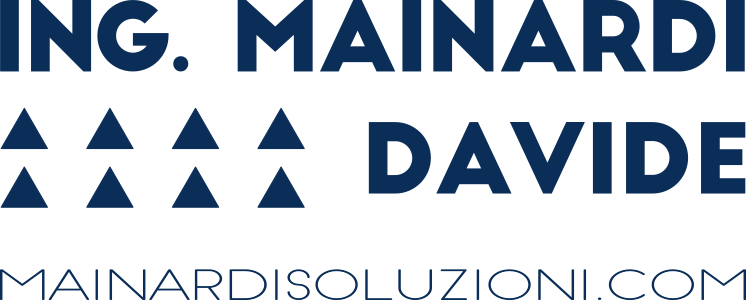
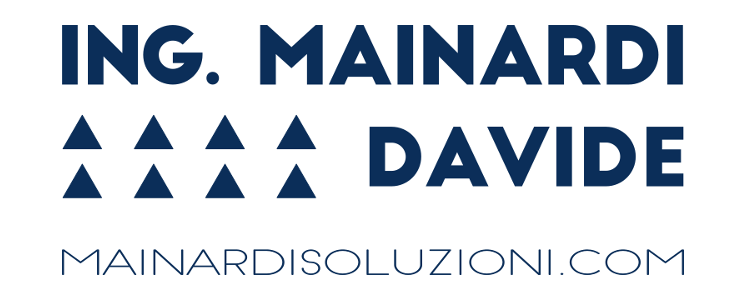
Migliorato la card open graph e twitter

diff --git a/index.html b/index.html
@@ -38,11 +38,13 @@
 		<meta property="og:type" content="article">
 		<meta property="og:description" content="Consulente ISO 9001, ISO 27001, regolamento privacy UE 679/2016 GDPR. Programmatore software gestionali ERP, MRP personalizzati. Docente Excel, Word e Java.">
 		<meta property="og:url" content="https://mainardisoluzioni.com/">
+		<meta property="og:site_name" content="Ing. Mainardi Davide" />
 
-		<meta name="twitter:card" content="summary">
-		<meta name="twitter:title" content="Consulenza sistemi- di gestione, software e formazione | Ing. Mainardi Davide">
+		<meta name="twitter:card" content="summary_large_image">
+		<meta name="twitter:title" content="Consulenza, realizzazione software e formazione | Ing. Mainardi Davide">
 		<meta name="twitter:creator" content="@ingmainardi">
 		<meta name="twitter:description" content="Consulente ISO 9001, ISO 27001, regolamento privacy UE 679/2016 GDPR. Programmatore software gestionali ERP, MRP personalizzati. Docente Excel, Word e Java.">
+		<meta name="twitter:image" content="https://mainardisoluzioni.com/images/ingmainardidavide.png" />
 
 
 	</head>
